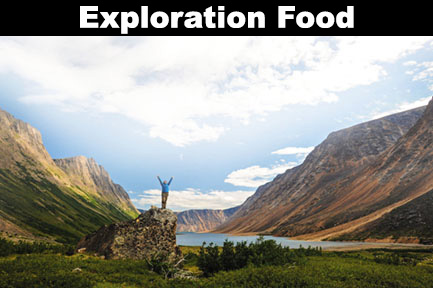
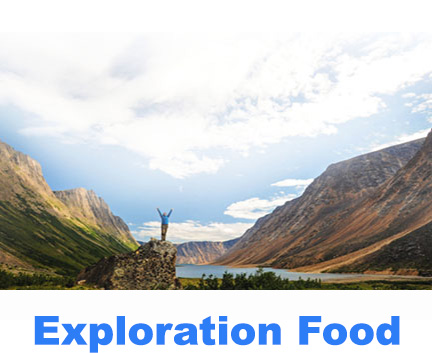
updating jpg titles

diff --git a/portfolio.html b/portfolio.html
@@ -48,20 +48,25 @@
         <!-- Creating a card for each portfolio entry -->
         <div class="row row-cols-1 row-cols-md-2 row-cols-lg-4">
             <div class="col mb-4">
+                <a href="https://cermqm.github.io/explorationfood/">
                 <figure class="card">
                     <img src="./images/exploration.jpg" class="card-img-top" alt="Photography">
                     <div class="card-body">
-                        <h3 class="card-title"><span><a href="https://cermqm.github.io/explorationfood/" target="_blank">Exploration</a></span></h3>
+                    </a>
+                        <!-- <h3 class="card-title"><span><a href="https://cermqm.github.io/explorationfood/" target="_blank">Exploration</a></span></h3> -->
                         <h6 class="card-title"><span><a href="https://github.com/cermqm/explorationfood" target="_blank">Repo</a></span></h6>
                     </div>
                 </figure>
+
             </div>
             <!-- Creating a card for each portfolio entry -->
             <div class="col mb-4">
+                <a href="https://cermqm.github.io/weatherapp/">
                 <figure class="card">
                     <img src="./images/weather.jpg" class="card-img-top" alt="Weather image">
                     <div class="card-body">
-                        <h3 class="card-title"><span><a href="https://cermqm.github.io/weatherapp/" target="_blank">Weather</a></span></h3>
+                        </a>
+                        <!-- <h3 class="card-title"><span><a href="https://cermqm.github.io/weatherapp/" target="_blank">Weather</a></span></h3> -->
                         <h6 class="card-title"><span><a href="https://github.com/cermqm/weatherapp" target="_blank">Repo</a></span></h6>
                     </div>
                 </figure>
